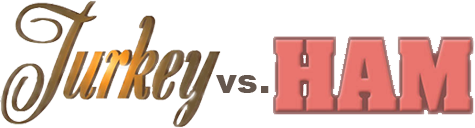
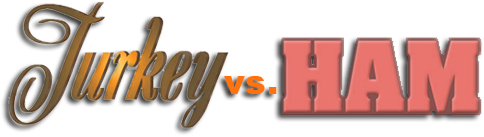
header updated, ham now moves on global ticker from game class

diff --git a/dev/js/game/Ham.js b/dev/js/game/Ham.js
@@ -18,7 +18,7 @@ this.hamvturkey = this.hamvturkey || {};
 		//this.background = new createjs.Shape();
 		//this.background.graphics.beginFill(color).drawRect(0, 0, 60,80);
 		//this.addChild(this.background);
-		this.on("tick", this.handleTick);
+		//this.on("tick", this.handleTick);
 		this.mouseChildren = false;
 	}
 	p.buildSprite = function(img){
@@ -46,7 +46,7 @@ this.hamvturkey = this.hamvturkey || {};
 		this.sprite.scaleX = this.sprite.scaleY = .5;
 		this.addChild(this.sprite);
 	}
-	p.handleTick = function(event) {
+	p.move = function() {
 		var r = this.range*.5   
 		this.sprite.x = r+Math.cos(p.count++*this.speed)*r-25;
 		///	console.log(this.background.x);

diff --git a/dev/js/game/Game.js b/dev/js/game/Game.js
@@ -147,6 +147,7 @@ this.hamvturkey = this.hamvturkey || {};
 			tick:function(event){
 				this.updateCursor();
 				this.stage.update();
+				this.ham.move();
 			},
 			updateCursor:function(){
 				var goalMouse = this.goal.globalToLocal(this.stage.mouseX,this.stage.mouseY);
